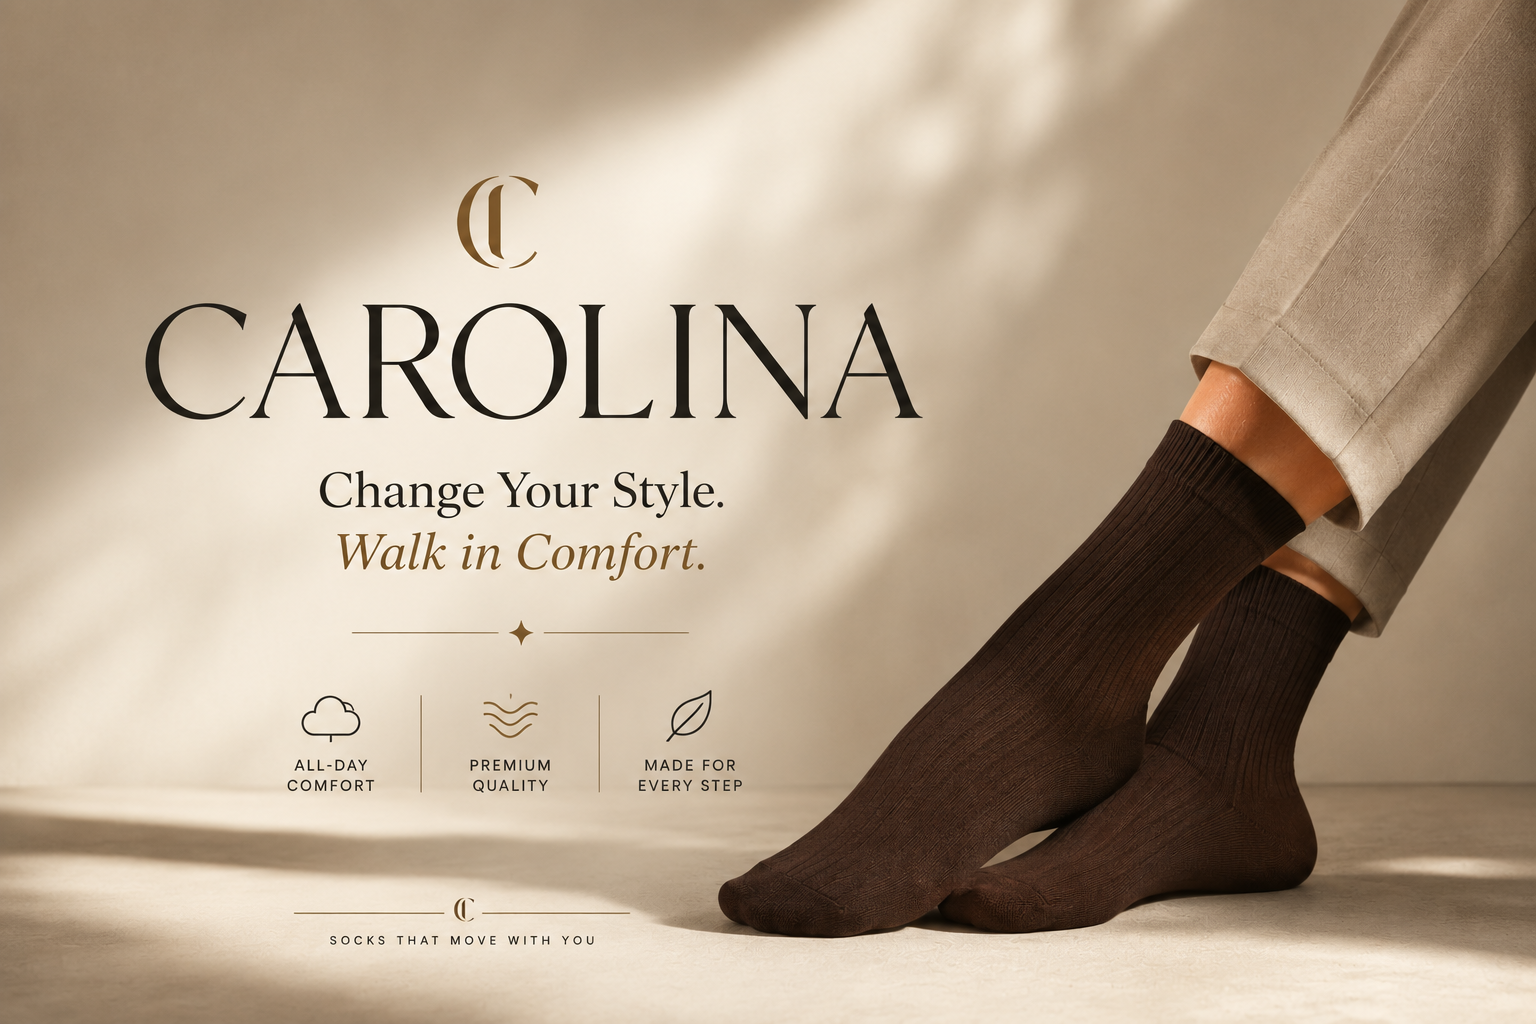
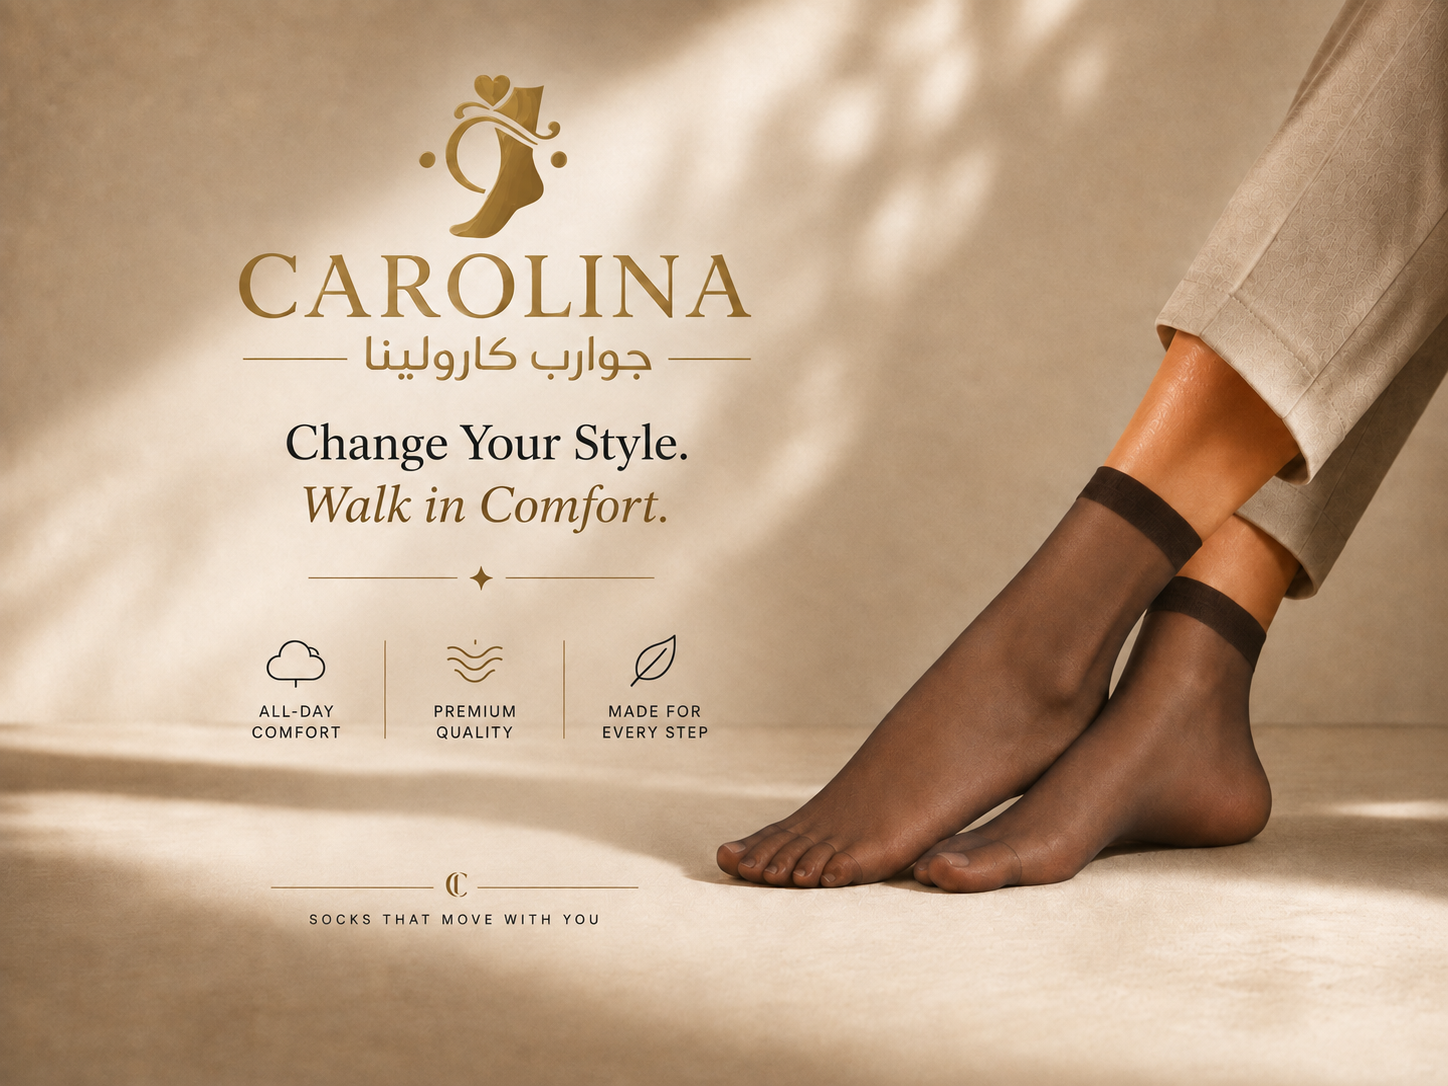
fffffffff

diff --git a/index.html b/index.html
@@ -58,10 +58,11 @@
       <div class="hero-frame">
         <div class="hero-slides">
           <div class="hero-slide is-active">
-            <img src="images/introduce.png" alt="Carolina — Change Your Style. Walk in Comfort." />
+            <img src="images/introduce.png" data-src-en="images/introduce.png" data-src-ar="images/introduce-ar.png"
+              alt="Carolina — Change Your Style. Walk in Comfort." />
           </div>
           <div class="hero-slide">
-            <img src="images/introduce2.png"
+            <img src="images/introduce2.png" data-src-en="images/introduce2.png" data-src-ar="images/introduce2-ar.png"
               alt="Carolina socks — All-Day Comfort, Premium Quality, Made for Every Step" />
           </div>
           <div class="hero-slide">

diff --git a/js/i18n.js b/js/i18n.js
@@ -431,6 +431,11 @@
       if (!key) return;
       el.setAttribute('aria-label', t(key, readVars(el)));
     });
+    root.querySelectorAll('[data-src-en]').forEach((el) => {
+      const lang = getLang();
+      const src = lang === 'ar' ? el.getAttribute('data-src-ar') : el.getAttribute('data-src-en');
+      if (src) el.setAttribute('src', src);
+    });
     const titleKey = document.documentElement.getAttribute('data-i18n-title');
     if (titleKey) document.title = t(titleKey);
   }
